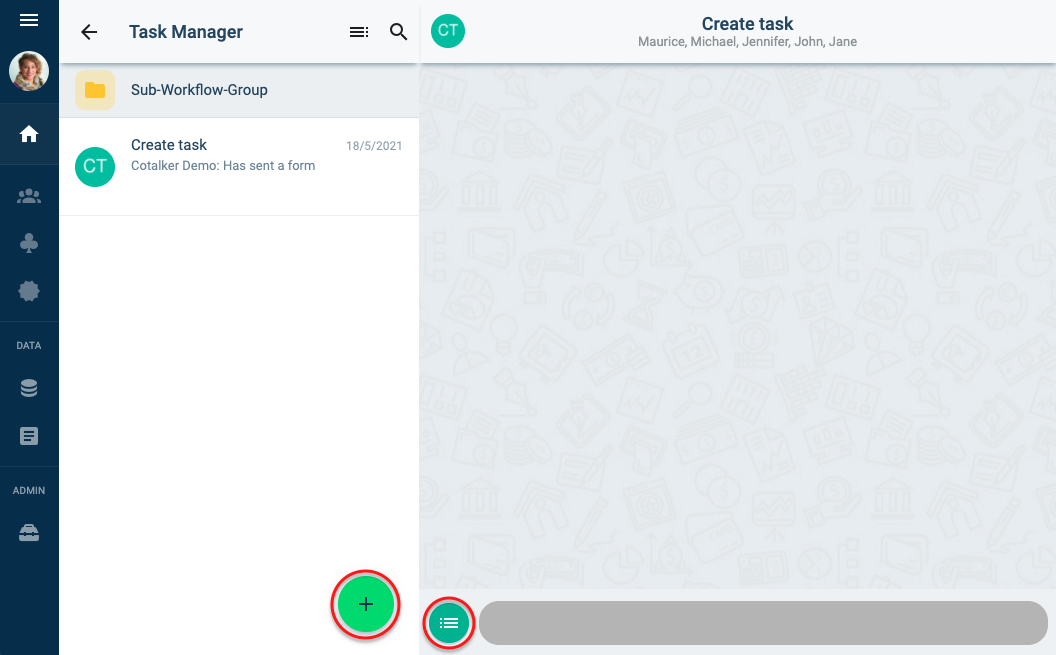
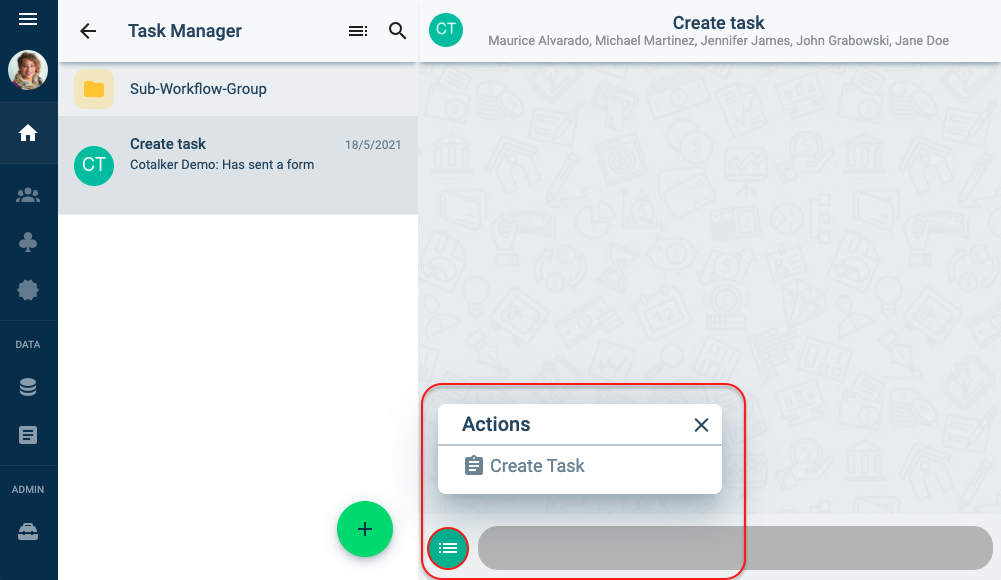
Workflow State section updated 5

diff --git a/docs/documentation/client/client_taskview.md b/docs/documentation/client/client_taskview.md
@@ -81,33 +81,41 @@ _Your screen will look something like this:_
 <br/>
 
 ## Creating Tasks {#creating-tasks}
-
-_Tasks_ can be generated automatically by [surveys](/docs/documentation/client/surveys) accessed through the _actions button_, _channel options button_, or a _public survey_. They can also be created manually through the _tasks view_. 
-
-_If configured, you can create tasks from the "actions button" and "channel options button":_
+If configured, you can create tasks from the _actions button_ in the workflow's channel, as shown below:
 <img alt="create task" className="img_sizing item shadow--tl" src={useBaseUrl('img/client_tasks_09.png')} />
 <br/>
 
-
-From within the _task views_, you can manually **create a task** by pressing the <span className="badge badge--secondary">+</span> icon in the menu bar. A new task will appear in the list where you can name the task, and a side panel will open up with all the options needed to assign it to someone, establish its status and deadline, among other options.
+You can manually **create a task** from within the _task views_ by pressing the <span className="badge badge--secondary">+</span> icon in the menu bar. A new task will appear in the list where you can name the task, and a side panel will open up with all the options needed to assign it to someone, establish its status and deadline, among other options.
 
 <img alt="create task" className="img_sizing item shadow--tl" src={useBaseUrl('img/client_tasks_07.png')} />
 <br/>
 <br/>
 
 :::note
-In some configurations, administrators might program a [_workflow start survey_](/docs/documentation/admin/workflows/admin_workflow_required_survey) to appear when creating a new task. This feature permits _administrators_ make sure that _users_ correctly fill out all the necessary information for a _task_ and help teams stay informed of all created _tasks_.
+- In some configurations, administrators might program a [_workflow start survey_](/docs/documentation/admin/workflows/admin_workflow_required_survey) to appear when creating a new task. This feature permits _administrators_ make sure that _users_ correctly fill out all the necessary information for a _task_ and help teams stay informed of all created _tasks_.
+- Tasks can also be created through _public surveys_ for users outside the Cotalker environment.
 :::
 
 ## Modifying a Task {#modifying-tasks}
+If configured, you can change a task's state using the _actions button_ in its channel, as shown below.
 
-You can modify an existing _task_ by selecting it from the _tasks view_. A configuration side panel will open where you can view and edit the task's properties. 
+<img alt="create task" className="img_sizing item shadow--tl" src={useBaseUrl('img/client_tasks_10.png')} />
+<br/>
 
-_Your screen should look something like this:_
+
+You can also modify an existing _task_ by opening its configuration side panel either by selecting it through the _task view_ or by pressing the _title bar_ in the task's channel.
+
+#### _Task view:_
 <img alt="edit task" className="img_sizing item shadow--tl" src={useBaseUrl('img/client_tasks_06.png')} />
 <br/>
 
+#### _Task's channel:_
+<img alt="edit task" className="img_sizing item shadow--tl" src={useBaseUrl('img/client_tasks_11.png')} />
+<br/>
+
+
+
 :::note
-- If the _task_ has a _channel_ associated to it, the _channel_ will open up first in the side panel. Press the channel's title bar and the configuration side panel will then open up. 
+- In the _task view_, if the _task_ has a _channel_ associated with it, the _channel_ will open up first in the side panel. Press the channel's title bar, and the configuration side panel will then open up. 
 - If programmed by the administrator, a _state survey_ window might also appear when trying to modify the task.
 :::

diff --git a/docs/documentation/admin/workflows/admin_workflow_configure.md b/docs/documentation/admin/workflows/admin_workflow_configure.md
@@ -374,14 +374,14 @@ The state should already exist as an element in the collection selected previous
 <div className="col col--5">
 
 Creates an action button in the workflow's channel that indicates how a state change can be triggered. Options are: 
-- _None_: The action button is not created. Use this option to change states through other means, like: _survey trigger_ (mentioned below), [_task view_](/docs/documentation/client/taskview#modifying-tasks), a [routine stage-bot](/docs/documentation/automation/bots/pbchangestate), or through [API](/docs/documentation/api/tasks/tasks).
+- _None_: The action button is not created. Use this option to change states through other means, like: _survey trigger_ (mentioned below), [_task view_](/docs/documentation/client/taskview#task-view), a [routine stage-bot](/docs/documentation/automation/bots/pbchangestate), or through [API](/docs/documentation/api/tasks/tasks).
 - _Survey_: A survey is added as an option in the actions button. The **start form** field appears. There you can indicate which survey should be summoned.
 - _Manual_: Adds the state itself as an option in the actions button.
 
 </div>
 <div className="col col--4"><em>
 
-[Click here](/docs/documentation/client/taskview#creating-tasks) to see how the _actions button_ looks like and where it appears in the channel.
+[Click here](/docs/documentation/client/taskview#modifying-tasks) to see where to find the _actions button_ in the channel and how the options appear in it.
 
 </em></div>
 </div>
